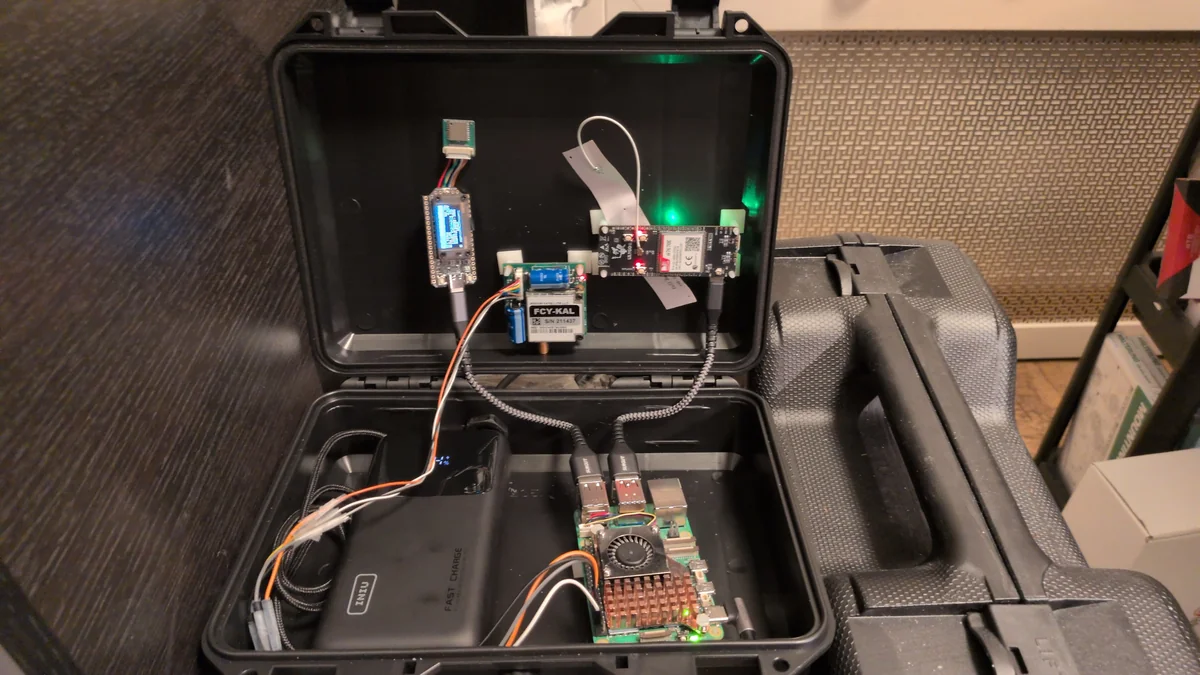
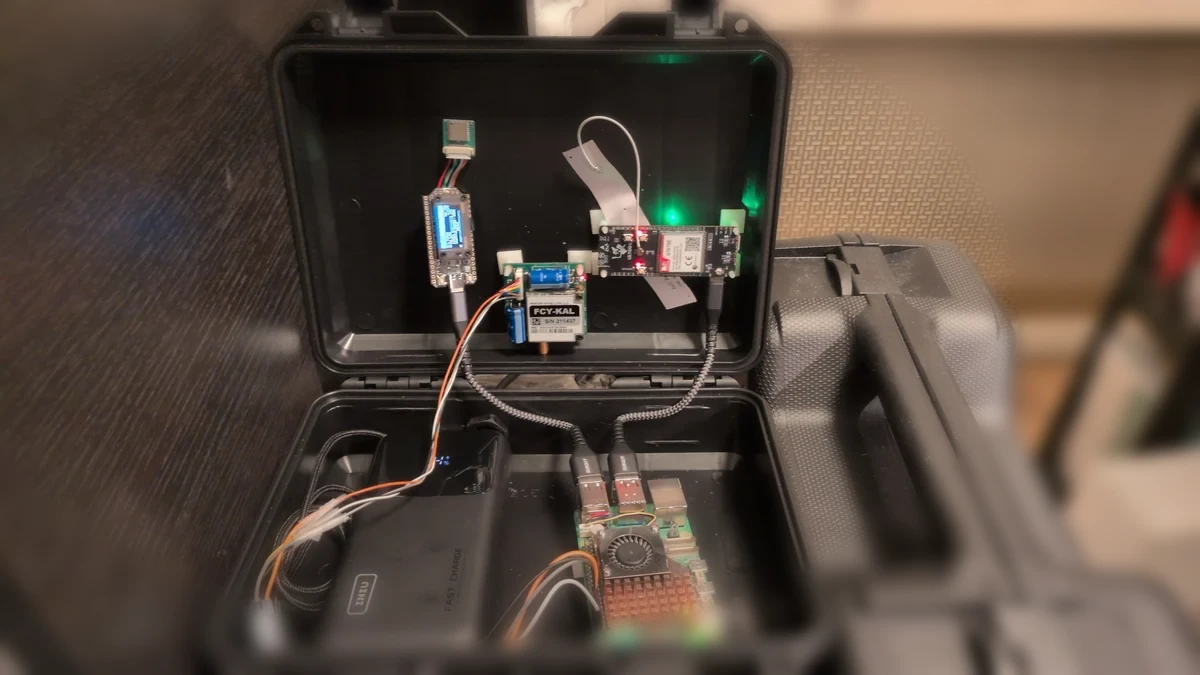
fix: zoom out field kit image 10%, add radial blur for depth of field [MESHSAT-278]
Increase max-height to 660px and apply radial blur to the source
image — Pelican case contents stay sharp while background (shelf,
wall, table) is softened for a depth-of-field effect.

diff --git a/site/assets/css/main.css b/site/assets/css/main.css
@@ -814,7 +814,7 @@ img {
 
 .hardware-photo img {
     border-radius: var(--radius-xl);
-    max-height: 600px;
+    max-height: 660px;
     object-fit: cover;
     object-position: center 70%;
     box-shadow: 0 10px 40px rgba(0, 0, 0, 0.2);
@@ -2207,7 +2207,7 @@ img {
 
 .hardware-photo img {
     border-radius: var(--radius-xl);
-    max-height: 600px;
+    max-height: 660px;
     object-fit: cover;
     object-position: center 70%;
     box-shadow: 0 16px 48px rgba(0, 0, 0, 0.2);
